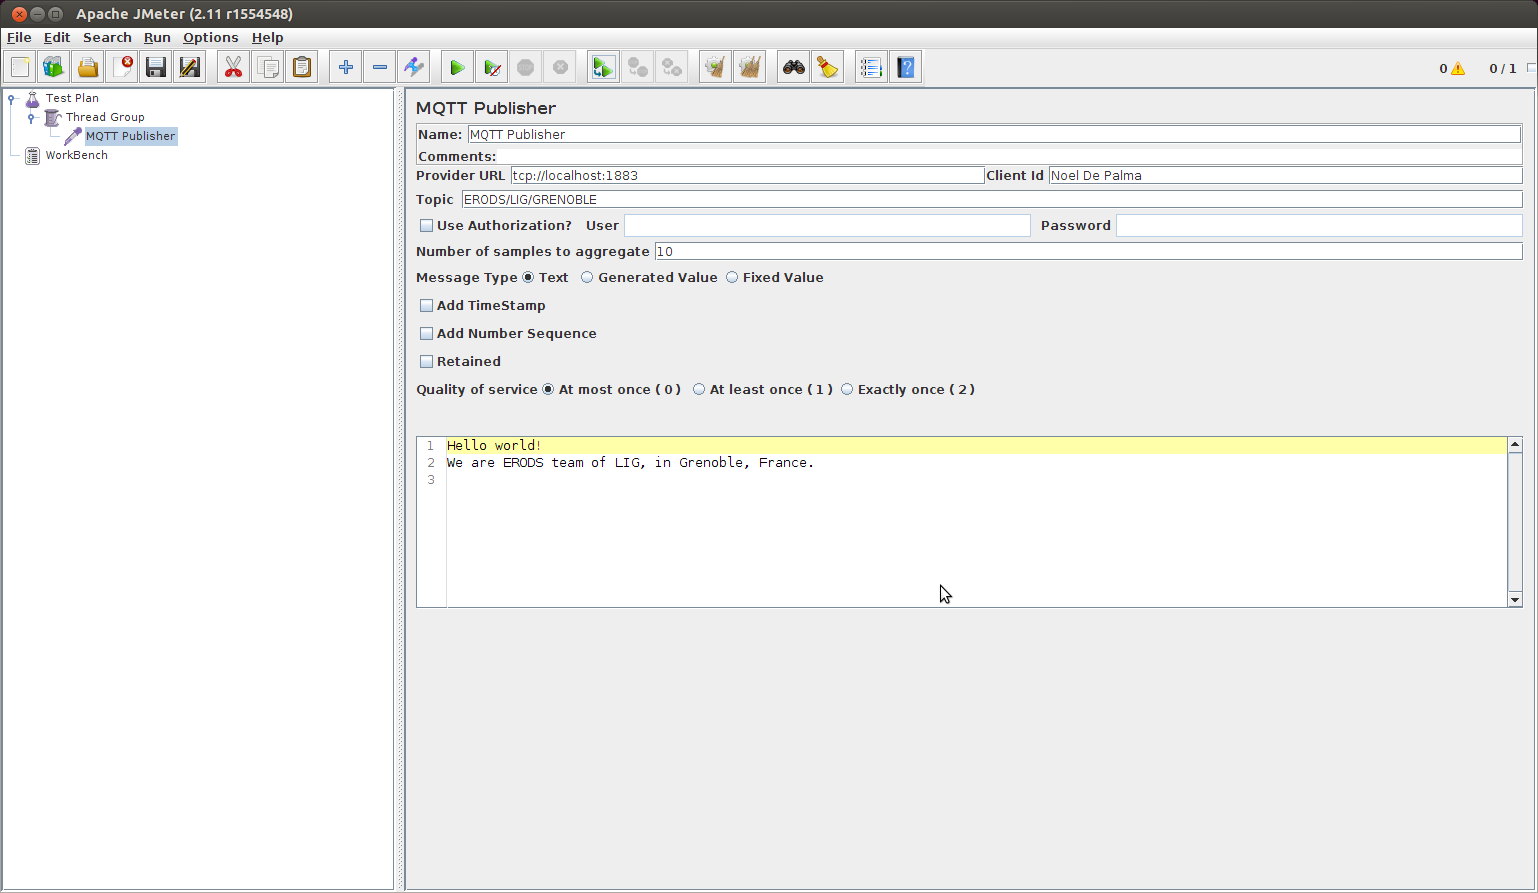
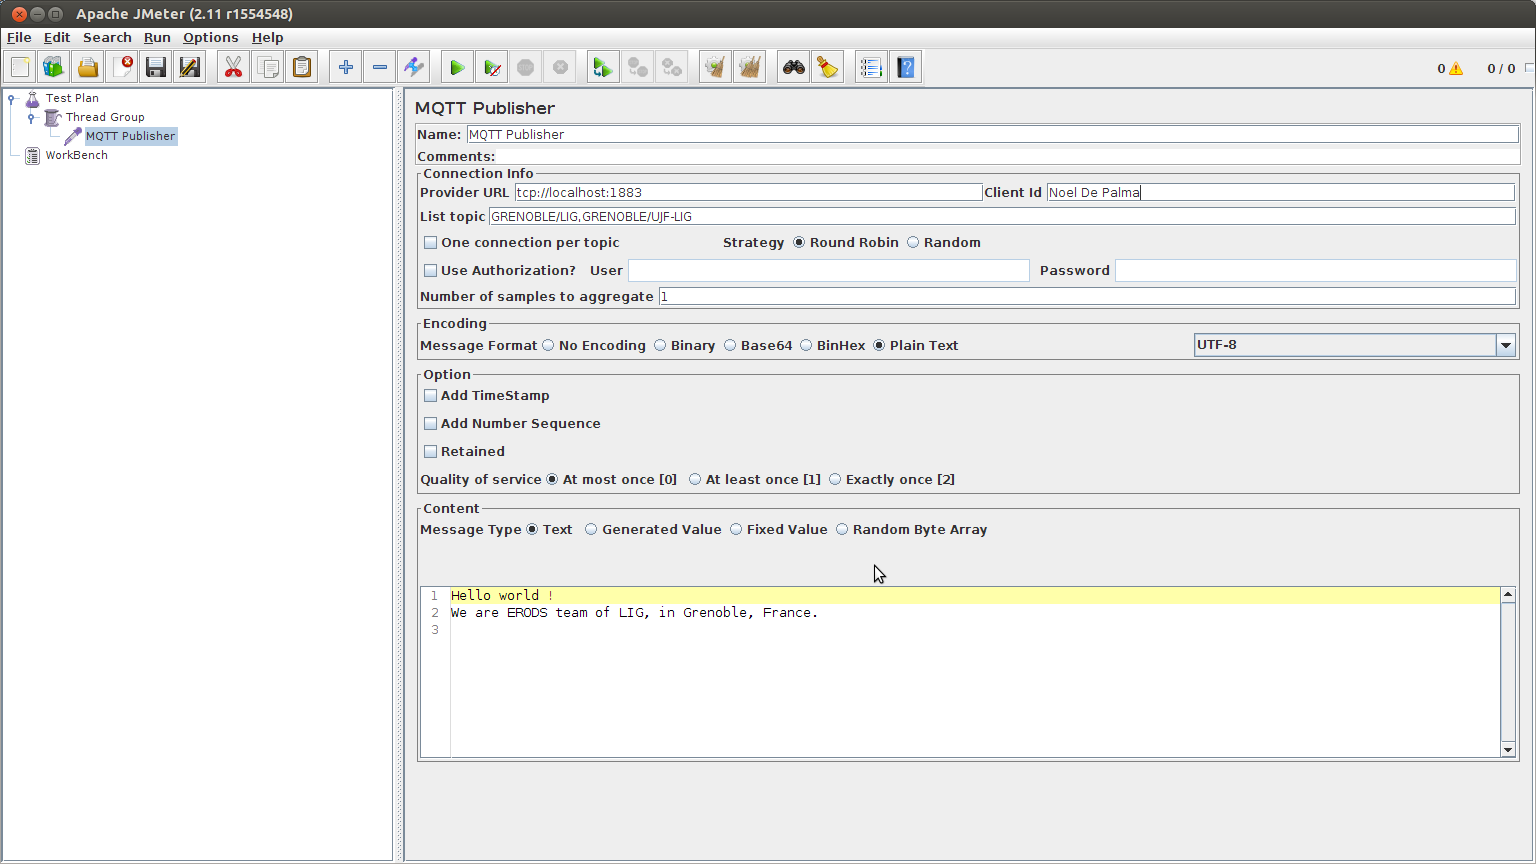
Finish List Topic and One connection per topic

Changed region(s): [[0.0, 0.0, 1.0, 0.9688], [0.9688, 0.5625, 1.0, 0.5938]]

diff --git a/README.md b/README.md
@@ -54,10 +54,10 @@ In the principal interface of MQTT Publisher we have the fields:
  For example: List Topic: GRENOBLE/LIG,GRENOBLE/UJF-LIG  
  This means, you'll publish to 2 topic: GRENOBLE/LIG and GRENOBLE/UJF-LIG  
  You can choose the option **One connection per topic** : It means that for each topic in the list above, the plugin will create one correspondant
-  connection. Note that, if the client Id is Noel, for example, and you have 3 topic in the list, so the plugin will create 3 connection with 3 Client 
-  Id : Noel 0; Noel 1, Noel 2  
- The plugin provide two strategies for the publishion:  
- **1: Round Robin** : You'll publish to the topics in equal portions and in circular order
+  connection. Note that, if the client Id is Noel, for example, and you have 2 topics in the list, so the plugin will create 2 connection with 3 Client 
+  Id : "Noel 0" and "Noel 1"
+ The plugin provide two strategies to publish:  
+ **1: Round Robin** : You'll publish to the topics in equal portions and in circular order  
  **2: Random** : You'll publish to a random topic in the list above  
  *Use Authorization check box:* Necessary in the case the connection needs the username and
 password  
